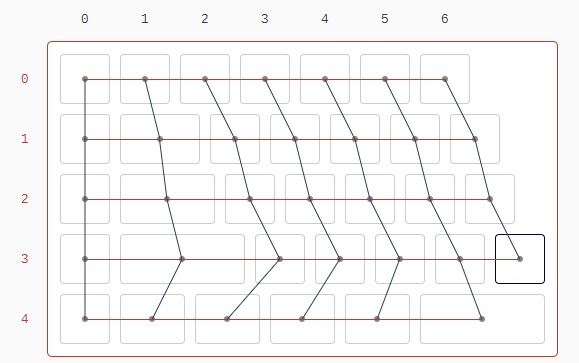
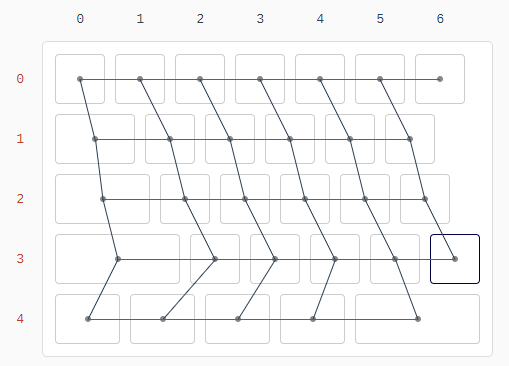
키보드 모양 변경 중

diff --git a/gkey/keymaps/default/keymap.c b/gkey/keymaps/default/keymap.c
@@ -9,23 +9,23 @@ enum layer_names {
 
 const uint16_t PROGMEM keymaps[][MATRIX_ROWS][MATRIX_COLS] = {
    [_QWERTY] = LAYOUT(
-      KC_ESC,   KC_GRV,   KC_1,    KC_2,    KC_3,    KC_4,    KC_5,        KC_6,    KC_7,    KC_8,    KC_9,    KC_0,     KC_MINS, KC_EQL,  KC_BSPC, KC_HOME,
-      KC_PSCR,  KC_TAB,   KC_Q,    KC_W,    KC_E,    KC_R,    KC_T,        KC_Y,    KC_U,    KC_I,    KC_O,    KC_P,     KC_LBRC, KC_RBRC, KC_BSLS, KC_END,
-      KC_F5,    MO(_FN1), KC_A,    KC_S,    KC_D,    KC_F,    KC_G,        KC_H,    KC_J,    KC_K,    KC_L,    KC_SCLN,  KC_QUOT, KC_ENT,           KC_PGUP,
-      KC_INS,   KC_LSFT,  KC_Z,    KC_X,    KC_C,    KC_V,    KC_B,        KC_B,    KC_N,    KC_M,    KC_COMM, KC_DOT,   KC_SLSH, KC_RSFT, KC_UP,   KC_PGDN,
-      KC_DEL,   KC_LCTL,  KC_LWIN, KC_LALT, MO(_FN2),KC_SPC,               KC_RALT, KC_SPC,           KC_RALT, MO(_FN1), KC_DEL,  KC_LEFT, KC_DOWN, KC_RGHT),
+      KC_ESC,   KC_1,    KC_2,    KC_3,    KC_4,    KC_5,    KC_6,     KC_6,    KC_7,    KC_8,    KC_9,    KC_0,     KC_MINS, KC_EQL,  KC_BSPC, KC_HOME,
+      KC_TAB,   KC_Q,    KC_W,    KC_E,    KC_R,    KC_T,              KC_Y,    KC_U,    KC_I,    KC_O,    KC_P,     KC_LBRC, KC_RBRC, KC_BSLS, KC_END,
+      MO(_FN1), KC_A,    KC_S,    KC_D,    KC_F,    KC_G,              KC_H,    KC_J,    KC_K,    KC_L,    KC_SCLN,  KC_QUOT, KC_ENT,           KC_PGUP,
+      KC_LSFT,  KC_Z,    KC_X,    KC_C,    KC_V,    KC_B,              KC_B,    KC_N,    KC_M,    KC_COMM, KC_DOT,   KC_SLSH, KC_RSFT, KC_UP,   KC_PGDN,
+      KC_LCTL,  KC_LWIN, KC_LALT, MO(_FN2),KC_SPC,                     KC_RALT, KC_SPC,           KC_RALT, MO(_FN1), KC_DEL,  KC_LEFT, KC_DOWN, KC_RGHT),
    [_FN1] = LAYOUT(
-      _______,  _______,  KC_F1,   KC_F2,   KC_F3,   KC_F4,   KC_F5,       KC_F6,   KC_F7,   KC_F8,   KC_F9,    KC_F10,   KC_F11,  KC_F12,  _______, KC_MUTE,
-      _______,  _______,  KC_HOME, KC_UP,   KC_END,  KC_PGUP, _______,     _______, _______, _______, _______,  KC_PGUP,  _______, _______, _______, _______,
-      _______,  _______,  KC_LEFT, KC_DOWN, KC_RGHT, KC_PGDN, _______,     KC_LEFT, KC_DOWN, KC_UP,   KC_RGHT,  _______,  _______, _______,          KC_VOLU,
-      _______,  _______,  _______, _______, _______, _______, _______,     KC_PGDN, KC_PGDN, _______, _______,  _______,  _______, _______, _______, KC_VOLD,
-      _______,  _______,  _______, _______, _______, _______,              _______, _______,          _______,  _______,  _______, _______, _______, _______),
+      KC_GRV ,  KC_F1,   KC_F2,   KC_F3,   KC_F4,   KC_F5,   KC_F6,    KC_F6,   KC_F7,   KC_F8,   KC_F9,    KC_F10,   KC_F11,  KC_F12,  _______, KC_MUTE,
+      KC_CAPS,  KC_HOME, KC_UP,   KC_END,  KC_PGUP, _______,           _______, KC_GRV , _______, _______,  KC_PGUP,  _______, _______, _______, _______,
+      _______,  KC_LEFT, KC_DOWN, KC_RGHT, KC_PGDN, _______,           KC_LEFT, KC_DOWN, KC_UP,   KC_RGHT,  _______,  _______, _______,          KC_VOLU,
+      _______,  _______, _______, _______, _______, _______,           KC_PGDN, KC_PGDN, _______, _______,  KC_INS ,  KC_DEL , _______, _______, KC_VOLD,
+      _______,  _______, _______, _______, _______,                    _______, _______,          _______,  _______,  _______, _______, _______, _______),
    [_FN2] = LAYOUT(
-      RESET  ,  _______,  KC_KP_1, KC_KP_2, KC_KP_3, KC_KP_4, KC_KP_5,     KC_KP_6, KC_KP_7, KC_KP_8, KC_KP_9,  KC_KP_0,  KC_PMNS, KC_PEQL,  _______,KC_P1,
-      _______,  _______,  KC_HOME, KC_UP,   KC_END,  KC_PGUP, _______,     KC_KP_7, KC_KP_8, KC_KP_9, _______,  _______,  _______, _______, _______, KC_P2,
-      _______,  _______,  KC_LEFT, KC_DOWN, KC_RGHT, KC_PGDN, _______,     KC_KP_4, KC_KP_5, KC_KP_6, _______,  _______,  _______, KC_PENT,          KC_MPRV,
-      _______,  _______,  _______, _______, _______, _______, _______,     KC_KP_0, KC_KP_1, KC_KP_2, KC_KP_3,  _______,  _______, _______, _______, KC_MNXT,
-      _______,  _______,  _______, _______, _______, _______,              _______, _______,          _______,  _______,  _______, _______, _______, _______)
+      RESET  ,  KC_KP_1, KC_KP_2, KC_KP_3, KC_KP_4, KC_KP_5, KC_KP_F6, KC_KP_6, KC_KP_7, KC_KP_8, KC_KP_9,  KC_KP_0,  KC_PMNS, KC_PEQL,  _______,KC_P1,
+      _______,  KC_HOME, KC_UP,   KC_END,  KC_PGUP, _______,           KC_KP_7, KC_KP_8, KC_KP_9, _______,  _______,  _______, _______, _______, KC_P2,
+      _______,  KC_LEFT, KC_DOWN, KC_RGHT, KC_PGDN, _______,           KC_KP_4, KC_KP_5, KC_KP_6, _______,  _______,  _______, KC_PENT,          KC_MPRV,
+      _______,  _______, _______, _______, _______, _______,           KC_KP_0, KC_KP_1, KC_KP_2, KC_KP_3,  _______,  _______, _______, _______, KC_MNXT,
+      _______,  _______, _______, _______, _______,                    KC_NUM , _______,          _______,  _______,  _______, _______, _______, _______)
 };
 
 bool process_record_user(uint16_t keycode, keyrecord_t *record)

diff --git a/gkey/gkey.h b/gkey/gkey.h
@@ -12,20 +12,20 @@
 
 #define LAYOUT(\
   L00, L01, L02, L03, L04, L05, L06,    R00, R01, R02, R03, R04, R05, R06, R07, R08, \
-  L10, L11, L12, L13, L14, L15, L16,    R10, R11, R12, R13, R14, R15, R16, R17, R18, \
-  L20, L21, L22, L23, L24, L25, L26,    R20, R21, R22, R23, R24, R25, R26,      R28, \
-  L30, L31, L32, L33, L34, L35, L36,    R30, R31, R32, R33, R34, R35, R36, R37, R38, \
-  L40, L41, L42, L43, L44, L45,         R40, R41,      R43, R44, R45, R46, R47, R48 \
+  L10, L11, L12, L13, L14, L15,         R10, R11, R12, R13, R14, R15, R16, R17, R18, \
+  L20, L21, L22, L23, L24, L25,         R20, R21, R22, R23, R24, R25, R26,      R28, \
+  L30, L31, L32, L33, L34, L35,         R30, R31, R32, R33, R34, R35, R36, R37, R38, \
+  L40, L41, L42, L43, L44,              R40, R41,      R43, R44, R45, R46, R47, R48 \
   ) \
   { \
-    { L00, L01, L02,   L03, L04, L05, L06,   KC_NO, KC_NO }, \
-    { L10, L11, L12,   L13, L14, L15, L16,   KC_NO, KC_NO }, \
-    { L20, L21, L22,   L23, L24, L25, L26,   KC_NO, KC_NO }, \
-    { L30, L31, L32,   L33, L34, L35, L36,   KC_NO, KC_NO }, \
-    { L40, L41, L42,   L43, L44, L45, KC_NO, KC_NO, KC_NO }, \
-    { R00, R01, R02,   R03, R04, R05, R06,   R07,   R08 }, \
-    { R10, R11, R12,   R13, R14, R15, R16,   R17,   R18 }, \
-    { R20, R21, R22,   R23, R24, R25, R26,   KC_NO, R28 }, \
-    { R30, R31, R32,   R33, R34, R35, R36,   R37,   R38 }, \
-    { R40, R41, KC_NO, R43, R44, R45, R46,   R47,   R48 } \
+    { L00, L01, L02,   L03, L04, L05,   L06,   KC_NO, KC_NO }, \
+    { L10, L11, L12,   L13, L14, L15,   KC_NO, KC_NO, KC_NO }, \
+    { L20, L21, L22,   L23, L24, L25,   KC_NO, KC_NO, KC_NO }, \
+    { L30, L31, L32,   L33, L34, L35,   KC_NO, KC_NO, KC_NO }, \
+    { L40, L41, L42,   L43, L44, KC_NO, KC_NO, KC_NO, KC_NO }, \
+    { R00, R01, R02,   R03, R04, R05,   R06,   R07,   R08 }, \
+    { R10, R11, R12,   R13, R14, R15,   R16,   R17,   R18 }, \
+    { R20, R21, R22,   R23, R24, R25,   R26,   KC_NO, R28 }, \
+    { R30, R31, R32,   R33, R34, R35,   R36,   R37,   R38 }, \
+    { R40, R41, KC_NO, R43, R44, R45,   R46,   R47,   R48 } \
 }
